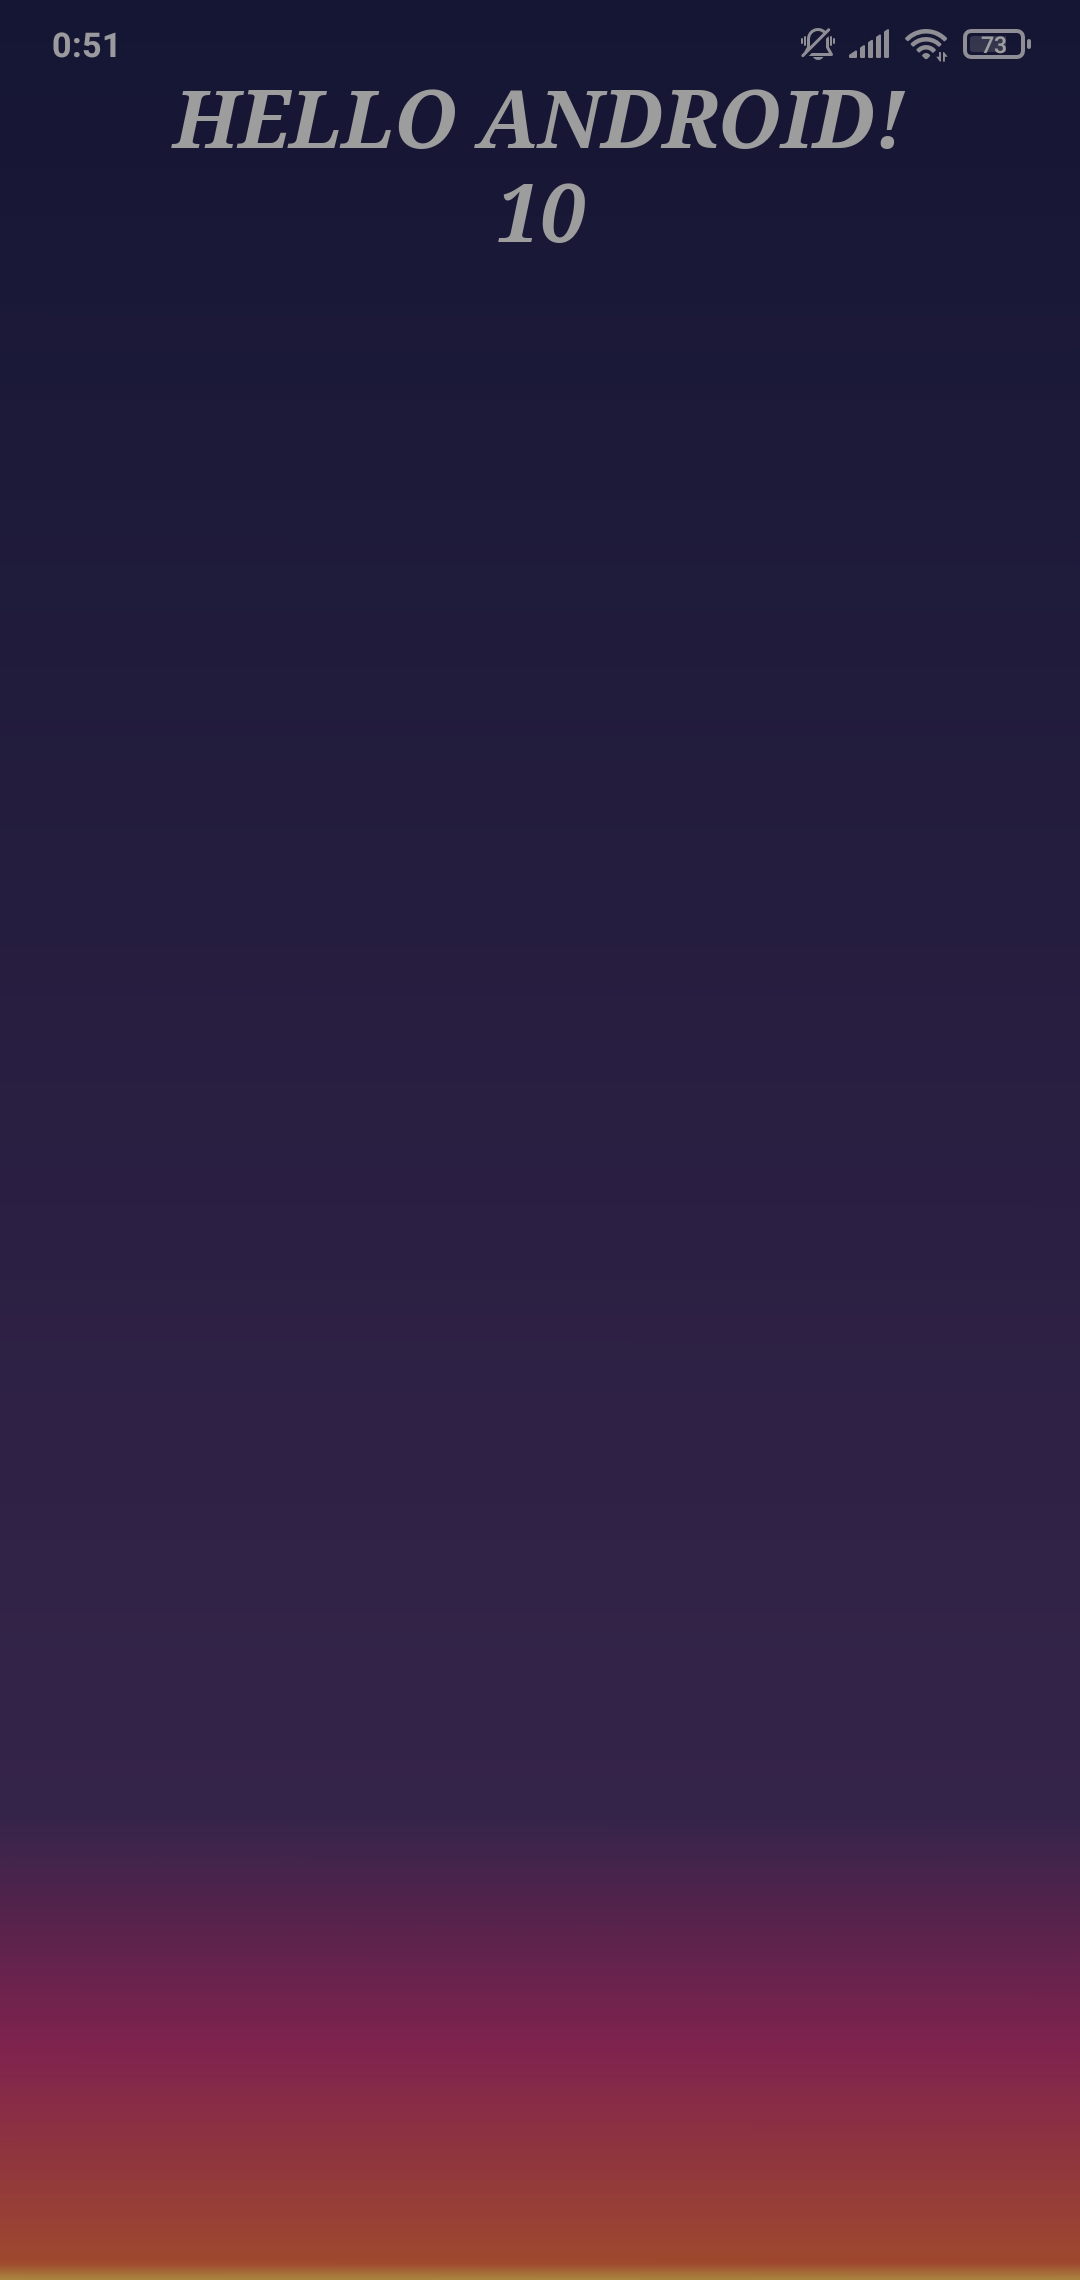
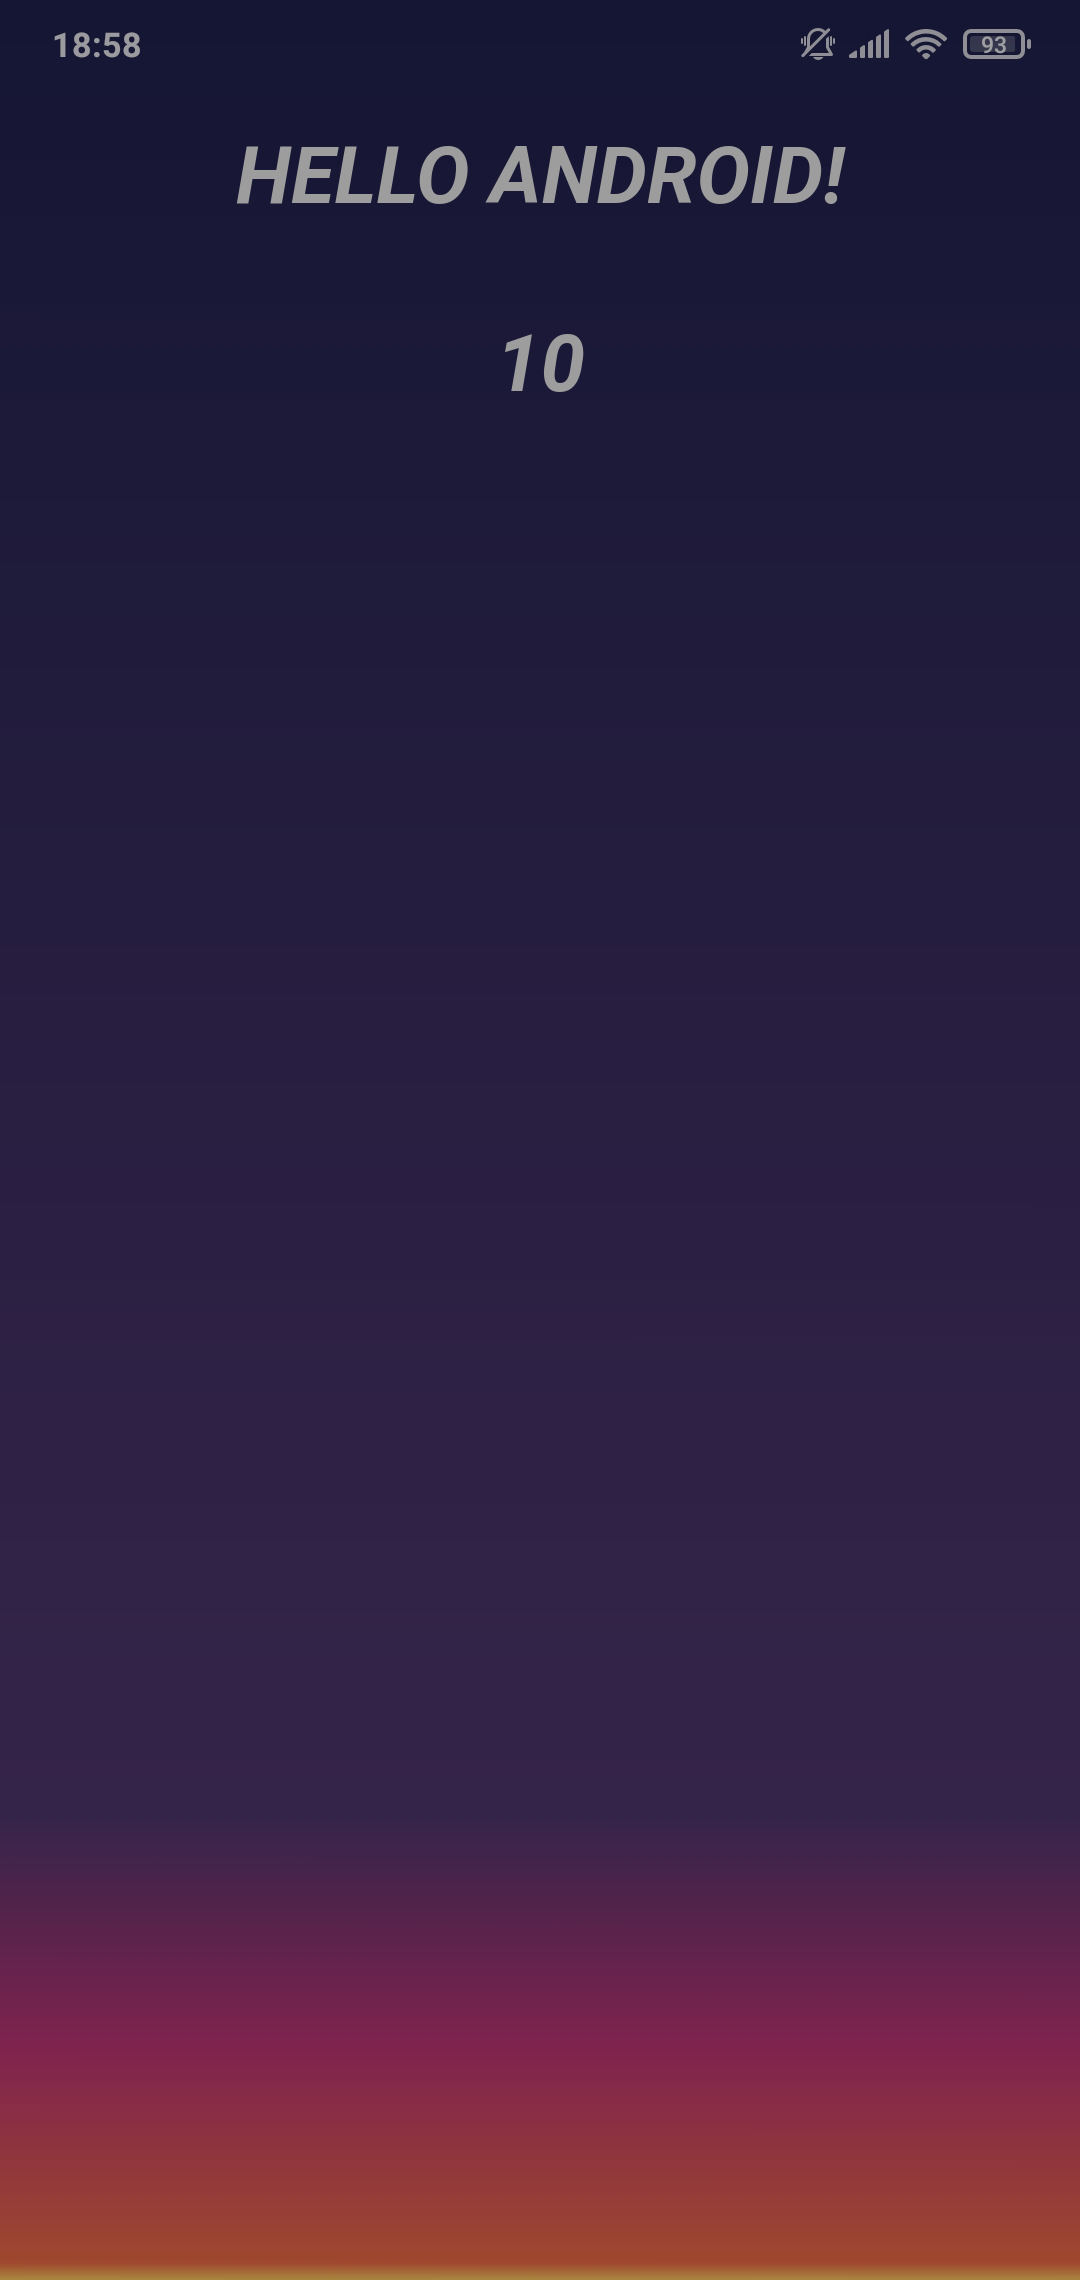
Fix Android Font (#407)
The font is "Roboto", the "Noto Sans" fonts are just special fallbacks for other languages.

Changed region(s): [[0.1528, 0.0311, 0.8556, 0.1868], [0.0306, 0.0, 0.1222, 0.0311]]

diff --git a/crates/zng-ext-font/src/query_util.rs b/crates/zng-ext-font/src/query_util.rs
@@ -330,7 +330,7 @@ mod android {
         // special names
         // source: https://android.googlesource.com/platform/frameworks/base/+/master/data/fonts/fonts.xml
         let font_name = match font_name.name() {
-            "sans-serif" => Cow::Owned(FontName::new("Noto Sans")),
+            "sans-serif" => Cow::Owned(FontName::new("Roboto")),
             "serif" | "fantasy" => Cow::Owned(FontName::new("Noto Serif")),
             "cursive" => Cow::Owned(FontName::new("Dancing Script")),
             "monospace" => Cow::Owned(FontName::new("Droid Sans Mono")),

diff --git a/crates/zng/README.md b/crates/zng/README.md
@@ -202,7 +202,7 @@ Only enables in `not(any(target_os = "android", target_arch = "wasm32"))` builds
 #### `"built_res"`
 Check if `zng::env::res` path is available in `init_built_res` first.
 
-Enabled by default in debug builds.
+Enabled by default in debug builds, ignored in Android and Wasm.
 
 #### `"android_game_activity"`
 Standard Android backend that requires a build system that can compile Java or Kotlin and fetch Android dependencies.

diff --git a/crates/zng-env/README.md b/crates/zng-env/README.md
@@ -9,6 +9,6 @@ This crate is part of the [`zng`](https://github.com/zng-ui/zng?tab=readme-ov-fi
 #### `"built_res"`
 Check if `res` path is available in `init_built_res` first.
 
-Enabled by default in debug builds.
+Enabled by default in debug builds, ignored in Android and Wasm.
 
 <!--do doc --readme #SECTION-END-->

diff --git a/crates/cargo-zng/README.md b/crates/cargo-zng/README.md
@@ -481,7 +481,7 @@ $ cargo zng res --tools
 .zr-apk @ cargo-zng
   Build an Android APK from the parent folder
 
-call 'cargo zng res --tool tool' to read full help from a tool
+call 'cargo zng res --help tool' to read full help from a tool
 ```
 
 The expanded help for each:
